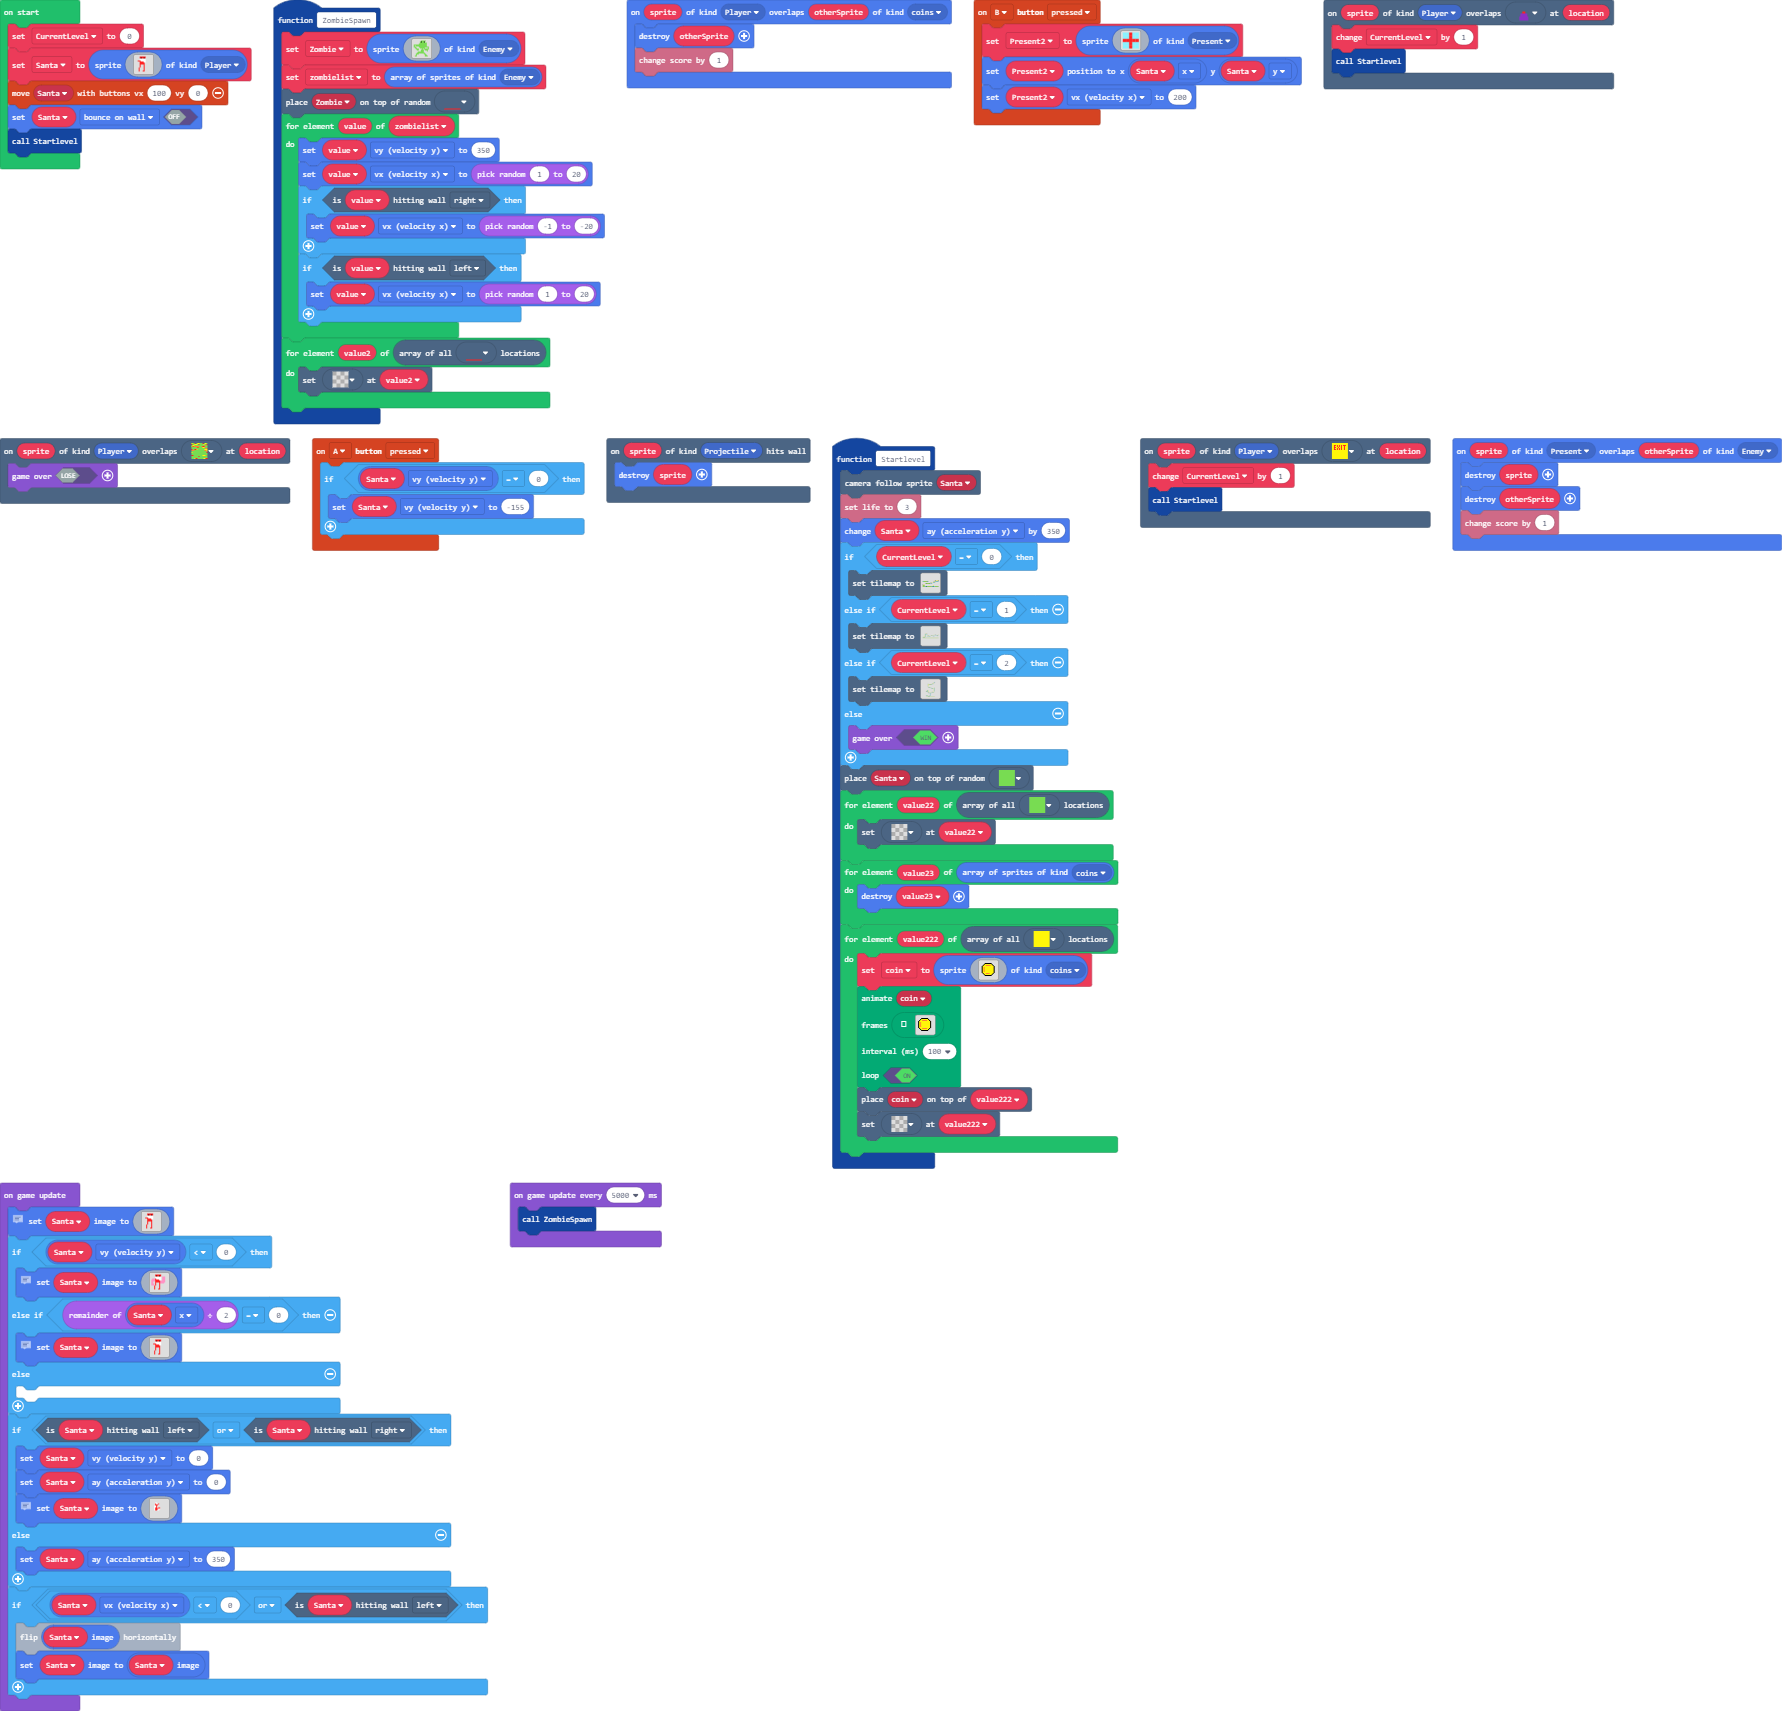
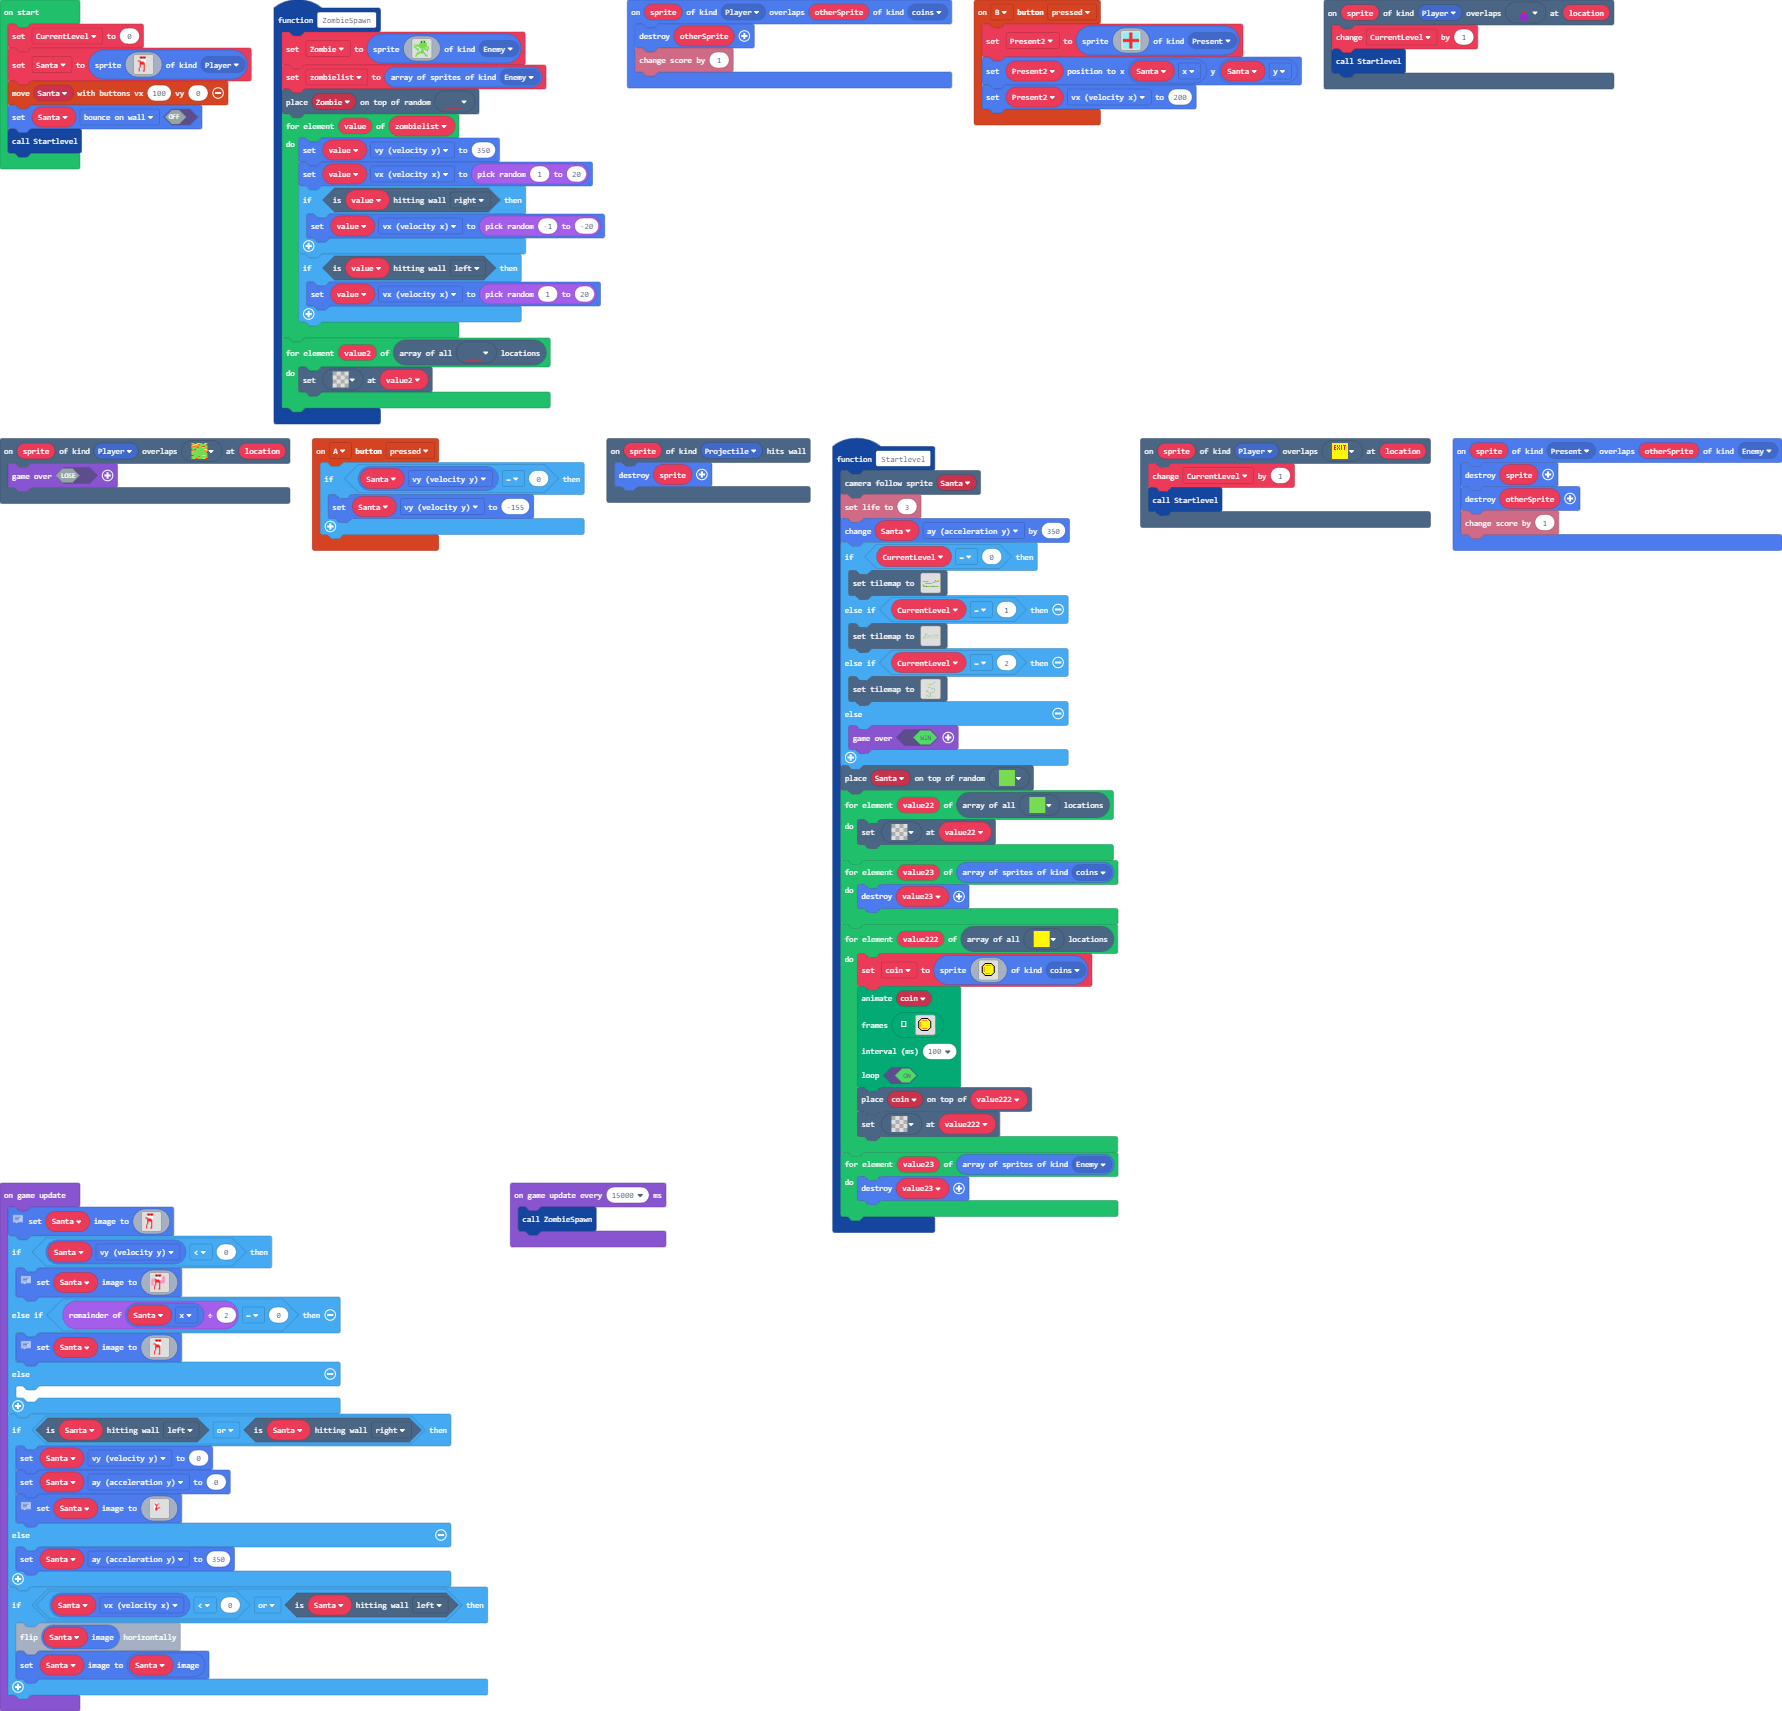
Update main.blocks, main.ts

Changed region(s): [[0.463, 0.6505, 0.6481, 0.7434]]

diff --git a/main.ts b/main.ts
@@ -191,6 +191,36 @@ function ZombieSpawn () {
         tiles.setTileAt(value2, myTiles.tile0)
     }
 }
+sprites.onOverlap(SpriteKind.Player, SpriteKind.coins, function (sprite, otherSprite) {
+    otherSprite.destroy()
+    info.changeScoreBy(1)
+})
+controller.B.onEvent(ControllerButtonEvent.Pressed, function () {
+    Present2 = sprites.create(img`
+9 9 2 9 9 
+9 9 2 9 9 
+2 2 2 2 2 
+9 9 2 9 9 
+9 9 2 9 9 
+`, SpriteKind.Present)
+    Present2.setPosition(Santa.x, Santa.y)
+    Present2.vx = 200
+})
+scene.onOverlapTile(SpriteKind.Player, myTiles.tile5, function (sprite, location) {
+    CurrentLevel += 1
+    Startlevel()
+})
+scene.onOverlapTile(SpriteKind.Player, myTiles.tile6, function (sprite, location) {
+    game.over(false)
+})
+controller.A.onEvent(ControllerButtonEvent.Pressed, function () {
+    if (Santa.vy == 0) {
+        Santa.vy = -155
+    }
+})
+scene.onHitWall(SpriteKind.Projectile, function (sprite) {
+    sprite.destroy()
+})
 function Startlevel () {
     scene.cameraFollowSprite(Santa)
     info.setLife(3)
@@ -492,37 +522,10 @@ function Startlevel () {
         tiles.placeOnTile(coin, value222)
         tiles.setTileAt(value222, myTiles.tile0)
     }
-}
-sprites.onOverlap(SpriteKind.Player, SpriteKind.coins, function (sprite, otherSprite) {
-    otherSprite.destroy()
-    info.changeScoreBy(1)
-})
-controller.B.onEvent(ControllerButtonEvent.Pressed, function () {
-    Present2 = sprites.create(img`
-9 9 2 9 9 
-9 9 2 9 9 
-2 2 2 2 2 
-9 9 2 9 9 
-9 9 2 9 9 
-`, SpriteKind.Present)
-    Present2.setPosition(Santa.x, Santa.y)
-    Present2.vx = 200
-})
-scene.onOverlapTile(SpriteKind.Player, myTiles.tile5, function (sprite, location) {
-    CurrentLevel += 1
-    Startlevel()
-})
-scene.onOverlapTile(SpriteKind.Player, myTiles.tile6, function (sprite, location) {
-    game.over(false)
-})
-controller.A.onEvent(ControllerButtonEvent.Pressed, function () {
-    if (Santa.vy == 0) {
-        Santa.vy = -155
+    for (let value23 of sprites.allOfKind(SpriteKind.Enemy)) {
+        value23.destroy()
     }
-})
-scene.onHitWall(SpriteKind.Projectile, function (sprite) {
-    sprite.destroy()
-})
+}
 scene.onOverlapTile(SpriteKind.Player, myTiles.tile2, function (sprite, location) {
     CurrentLevel += 1
     Startlevel()
@@ -532,8 +535,8 @@ sprites.onOverlap(SpriteKind.Present, SpriteKind.Enemy, function (sprite, otherS
     otherSprite.destroy()
     info.changeScoreBy(1)
 })
-let Present2: Sprite = null
 let coin: Sprite = null
+let Present2: Sprite = null
 let zombielist: Sprite[] = []
 let Zombie: Sprite = null
 let Santa: Sprite = null
@@ -653,6 +656,6 @@ game.onUpdate(function () {
         Santa.setImage(Santa.image)
     }
 })
-game.onUpdateInterval(5000, function () {
+game.onUpdateInterval(15000, function () {
     ZombieSpawn()
 })
